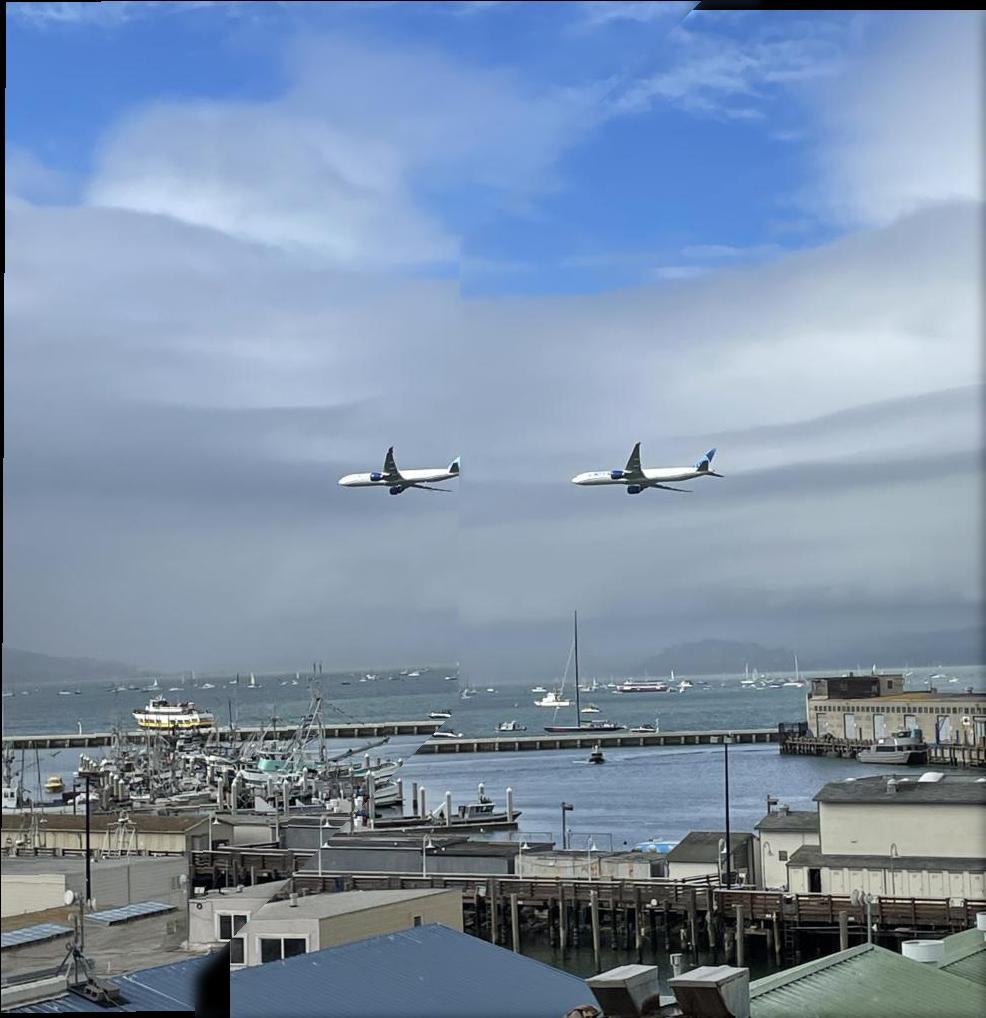
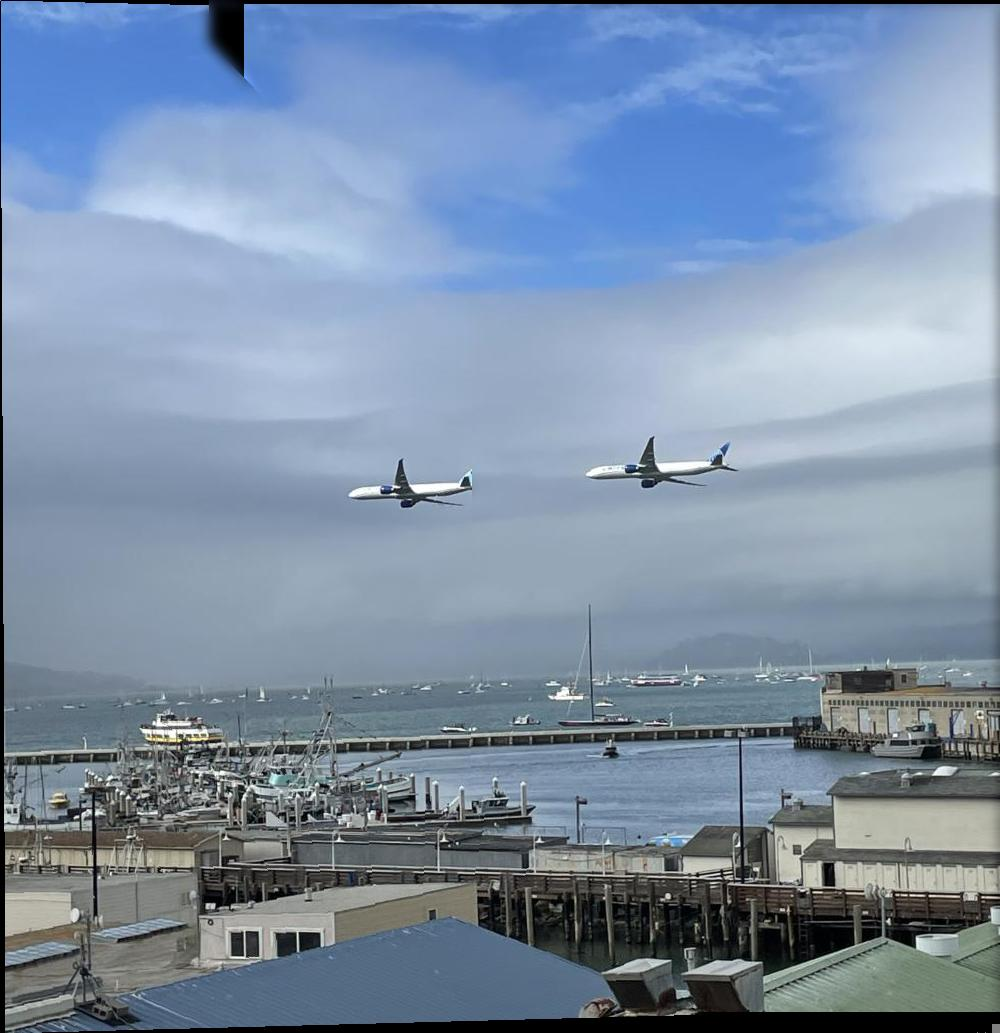
proj4b: final touches and images

diff --git a/proj4/index.html b/proj4/index.html
@@ -246,7 +246,7 @@
   <h3>Approach</h3>
   <p>In this part, we want to find points of interest which we can use as features to automatically build the correspondences between images in a mosaic. These points of interest are called Harris corners. Using the provided starter code, the Harris corners along with their scores are calculated. Then, the ANMS algorithm allows us to suppress the vast majority of the Harris corners while maintaining a good distribution of them across the image. This is where we use the equation in the paper which introduced ANMS. The paper is titled “Multi-Image Matching using Multi-Scale Oriented Patches". 
   \[ r_i = \max_j |x_i - x_j| \,\,\, \text{ s.t. } \,\,\, h(x_i) &lt; c_{\text{robust}} h(x_j) \]
-  Compute this for all corners \(x_i\). Then, return a desired number of best corners (I chose to return the best 200), where a corner is best if its radius is large. This ensures that the Harris corners don't clump up and are distributed in the picture.
+  Compute this for all corners \(x_i\). Then, return a desired number of best corners (I chose to return the best 300 and I also set \(c_{\text{robust}} = 0.9\)), where a corner is best if its radius is large. This ensures that the Harris corners don't clump up and are distributed in the picture.
 
   </p>
 
@@ -382,7 +382,7 @@
       <li>Count how many mapped points are close enough to the original target points.</li>
       <li>Take the max over how many points are “inline" and return the subset of corners that maximizes this value. </li>
     </ol>
-    This subset of points are the correspondences that will be used to warp images. </p>
+    This subset of points are the correspondences that will be used to warp images. As a final note, I'm unsure of the exact reason why but RANSAC was a bit “finnicky" with the sunset and nighttime pictures. There seems to be one combination of points that achieves the max inline correspondences but whose homography scales the points way too much. Thus, I always reseeded at the beginning of each call to RANSAC. </p>
 
   <h3>Results</h3>
   <h4>SF Skyline</h4>
@@ -420,39 +420,43 @@
   <p> With these correspondence points, compute the mosaic as was done in Project 4A. </p>
 
   <h3>Results</h3>
-  <p>Note, the B777 mosaic is still not perfect because I moved the camera and the center or projection as well when taking the pictures. </p>
+  <p>Comparing the manual (left) and auto (right) correspondence points. Note, the B777 mosaic is much better now, compared to when I manually picked the correspondence points. </p>
 
   <table>
     <tr>
       <th>San Francisco Skyline</th>
     </tr>
     <tr>
-      <td> <img src="images/processed/sf/mosaic_auto.jpg" width="600" height="600"> </td>
+      <td> <img src="images/processed/sf/mosaic.jpg" width="300" height="400"> </td>
+      <td> <img src="images/processed/sf/mosaic_auto.jpg" width="300" height="400"> </td>
     </tr>
     <tr>
       <th>The Bay Sunset</th>
     </tr>
     <tr>
-      <td> <img src="images/processed/bay_sunset/mosaic_auto.jpg" width="600" height="600"> </td>
+      <td> <img src="images/processed/bay_sunset/mosaic.jpg" width="400" height="300"> </td>
+      <td> <img src="images/processed/bay_sunset/mosaic_auto.jpg" width="400" height="300"> </td>
     </tr>
     <tr>
       <th>The Bay Nighttime</th>
     </tr>
     <tr>
-      <td> <img src="images/processed/bay_night/mosaic_auto.jpg" width="600" height="600"> </td>
+      <td> <img src="images/processed/bay_night/mosaic.jpg" width="400" height="300"> </td>
+      <td> <img src="images/processed/bay_night/mosaic_auto.jpg" width="400" height="300"> </td>
     </tr>
     <tr>
       <th>Fleet Week</th>
     </tr>
     <tr>
-      <td> <img src="images/processed/b777/mosaic_auto.jpg" width="600" height="600"> </td>
+      <td> <img src="images/processed/b777/mosaic.jpg" width="400" height="300"> </td>
+      <td> <img src="images/processed/b777/mosaic_auto.jpg" width="400" height="300"> </td>
     </tr>
   </table>
 </div>
 
 <div class="HomeContainer">
   <h2>What I have learned.</h2>
-  I think that the entire formulation on how to find good features and match correspondences is an interesting solution to a difficult problem. I think that the feature matching is one of the more interesting parts of the project; especially the use of Lowe's trick to solve the problem.
+  <p>I think that the entire formulation on how to find good features and match correspondences is an interesting solution to a difficult problem. I think that the feature matching is one of the more interesting parts of the project; especially the use of Lowe's trick to solve the problem. It is also cool to see that the B777 picture now lines up pretty well even if I didn't employ the best picture taking techniques. </p>
 </div>
 
 <div class="HomeContainer">
